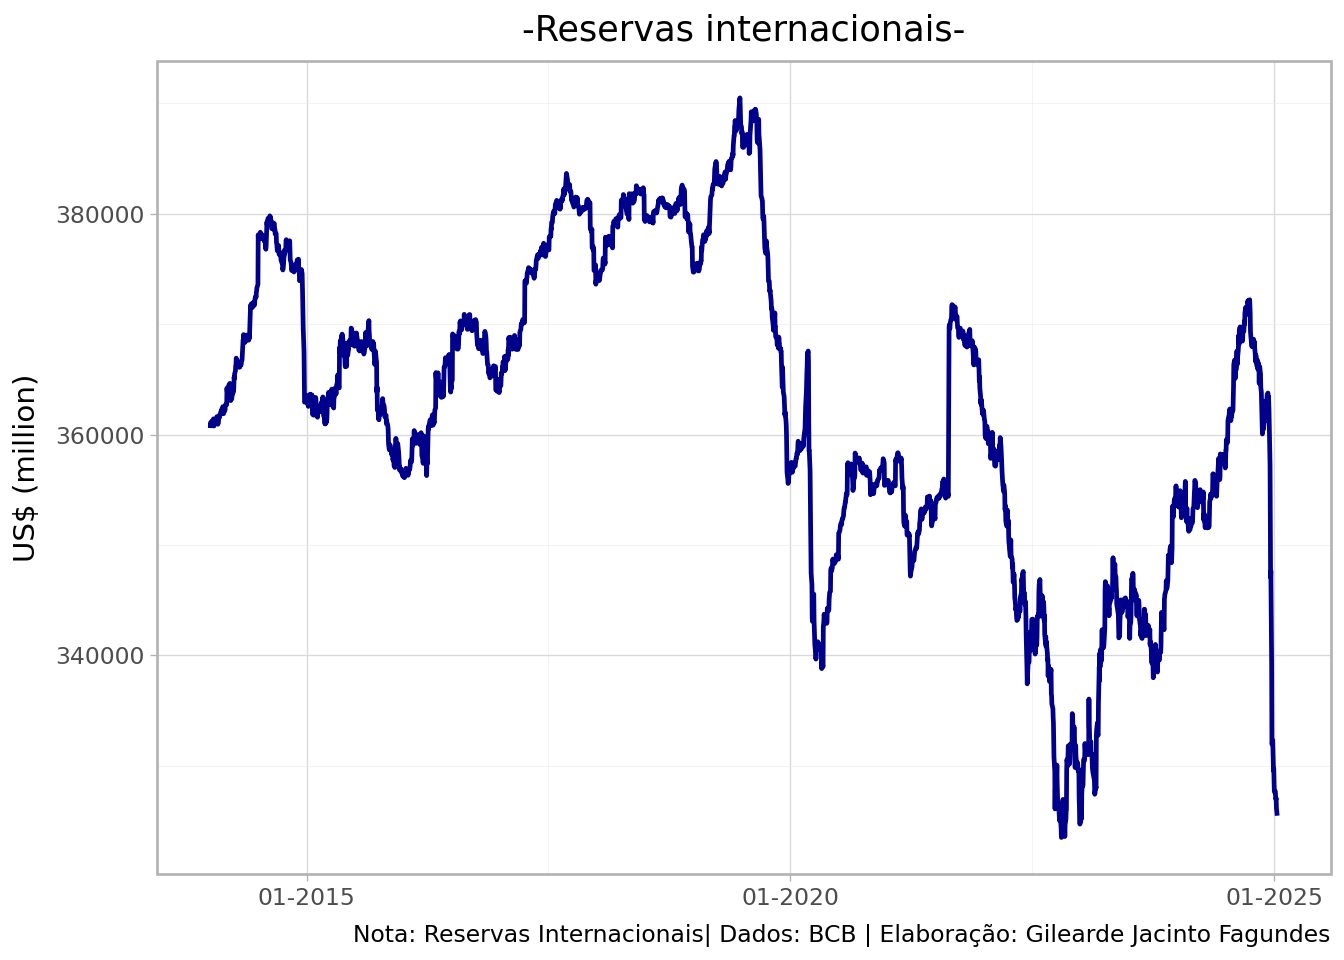
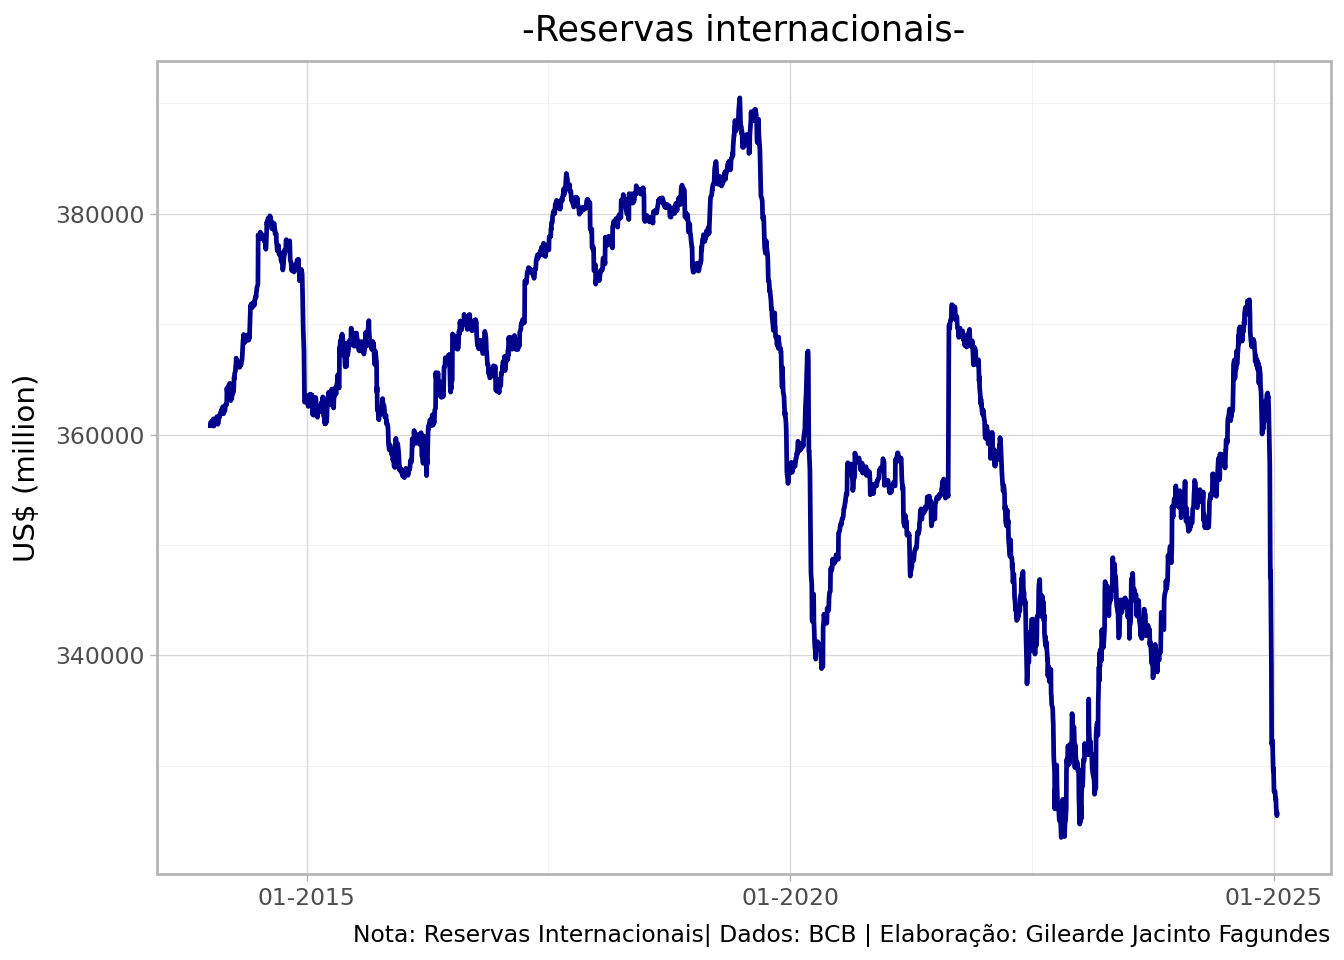
Atualização de relatorio e dashboard

diff --git a/relatorio/relatorio.html b/relatorio/relatorio.html
@@ -107,14 +107,14 @@ pre > code.sourceCode > span > a:first-child::before { text-decoration: underlin
 
 
 <p>Dados coletados da API do Banco Central do Brasil.</p>
-<div id="cd7f00f0" class="cell" data-execution_count="1">
+<div id="24fd1024" class="cell" data-execution_count="1">
 <div class="sourceCode cell-code" id="cb1"><pre class="sourceCode python code-with-copy"><code class="sourceCode python"><span id="cb1-1"><a href="#cb1-1" aria-hidden="true" tabindex="-1"></a><span class="co"># Import Librarys</span></span>
 <span id="cb1-2"><a href="#cb1-2" aria-hidden="true" tabindex="-1"></a><span class="im">from</span> bcb <span class="im">import</span> sgs</span>
 <span id="cb1-3"><a href="#cb1-3" aria-hidden="true" tabindex="-1"></a><span class="im">import</span> pandas <span class="im">as</span> pd</span>
 <span id="cb1-4"><a href="#cb1-4" aria-hidden="true" tabindex="-1"></a><span class="im">import</span> plotnine <span class="im">as</span> p9</span></code><button title="Copy to Clipboard" class="code-copy-button"><i class="bi"></i></button></pre></div>
 </div>
 <p>Utilização da library SGS/BCB:</p>
-<div id="b0d894df" class="cell" data-execution_count="2">
+<div id="4a64c972" class="cell" data-execution_count="2">
 <div class="sourceCode cell-code" id="cb2"><pre class="sourceCode python code-with-copy"><code class="sourceCode python"><span id="cb2-1"><a href="#cb2-1" aria-hidden="true" tabindex="-1"></a><span class="co"># Collect data</span></span>
 <span id="cb2-2"><a href="#cb2-2" aria-hidden="true" tabindex="-1"></a>dados <span class="op">=</span> sgs.get(</span>
 <span id="cb2-3"><a href="#cb2-3" aria-hidden="true" tabindex="-1"></a>    codes<span class="op">=</span>{<span class="st">"reserva"</span>: <span class="dv">13621</span>},</span>
@@ -123,7 +123,7 @@ pre > code.sourceCode > span > a:first-child::before { text-decoration: underlin
 <span id="cb2-6"><a href="#cb2-6" aria-hidden="true" tabindex="-1"></a>)</span></code><button title="Copy to Clipboard" class="code-copy-button"><i class="bi"></i></button></pre></div>
 </div>
 <p>Os dados brutos obtidos no SGS/BCB são exibidos abaixo:</p>
-<div id="a5420745" class="cell" data-execution_count="3">
+<div id="281dd2ef" class="cell" data-execution_count="3">
 <div class="sourceCode cell-code" id="cb3"><pre class="sourceCode python code-with-copy"><code class="sourceCode python"><span id="cb3-1"><a href="#cb3-1" aria-hidden="true" tabindex="-1"></a>dados</span></code><button title="Copy to Clipboard" class="code-copy-button"><i class="bi"></i></button></pre></div>
 <div class="cell-output cell-output-display" data-execution_count="3">
 <div>
@@ -166,37 +166,37 @@ pre > code.sourceCode > span > a:first-child::before { text-decoration: underlin
 <td>...</td>
 </tr>
 <tr class="odd">
-<td data-quarto-table-cell-role="th">2025-01-07</td>
-<td>327152</td>
-</tr>
-<tr class="even">
 <td data-quarto-table-cell-role="th">2025-01-08</td>
 <td>326948</td>
 </tr>
-<tr class="odd">
+<tr class="even">
 <td data-quarto-table-cell-role="th">2025-01-09</td>
 <td>327048</td>
 </tr>
-<tr class="even">
+<tr class="odd">
 <td data-quarto-table-cell-role="th">2025-01-10</td>
 <td>326184</td>
 </tr>
-<tr class="odd">
+<tr class="even">
 <td data-quarto-table-cell-role="th">2025-01-13</td>
 <td>325462</td>
+</tr>
+<tr class="odd">
+<td data-quarto-table-cell-role="th">2025-01-14</td>
+<td>325819</td>
 </tr>
 </tbody>
 </table>
 
-<p>2769 rows × 1 columns</p>
+<p>2770 rows × 1 columns</p>
 </div>
 </div>
 </div>
 <p>Valores e datas da maxima e minima das Reservas Internacionais Totais:</p>
-<div id="9dac1075" class="cell" data-execution_count="4">
+<div id="4c31b11b" class="cell" data-execution_count="4">
 <div class="sourceCode cell-code" id="cb4"><pre class="sourceCode python code-with-copy"><code class="sourceCode python"><span id="cb4-1"><a href="#cb4-1" aria-hidden="true" tabindex="-1"></a>dados <span class="op">=</span> dados.assign(data <span class="op">=</span> dados.index)</span></code><button title="Copy to Clipboard" class="code-copy-button"><i class="bi"></i></button></pre></div>
 </div>
-<div id="9a45755c" class="cell" data-execution_count="5">
+<div id="49d0a355" class="cell" data-execution_count="5">
 <div class="sourceCode cell-code" id="cb5"><pre class="sourceCode python code-with-copy"><code class="sourceCode python"><span id="cb5-1"><a href="#cb5-1" aria-hidden="true" tabindex="-1"></a>menor_valor <span class="op">=</span> dados.reserva.<span class="bu">min</span>() </span>
 <span id="cb5-2"><a href="#cb5-2" aria-hidden="true" tabindex="-1"></a>data_menor_valor <span class="op">=</span> dados.reserva.idxmin().date()</span>
 <span id="cb5-3"><a href="#cb5-3" aria-hidden="true" tabindex="-1"></a>maior_valor<span class="op">=</span>dados.reserva.<span class="bu">max</span>()</span>
@@ -208,7 +208,7 @@ pre > code.sourceCode > span > a:first-child::before { text-decoration: underlin
 </div>
 </div>
 <p>Gráfico de linha com a série das Reservas Internacionais Totais:</p>
-<div id="ac862142" class="cell" data-execution_count="6">
+<div id="08611432" class="cell" data-execution_count="6">
 <div class="sourceCode cell-code" id="cb7"><pre class="sourceCode python code-with-copy"><code class="sourceCode python"><span id="cb7-1"><a href="#cb7-1" aria-hidden="true" tabindex="-1"></a><span class="co"># Line Graph</span></span>
 <span id="cb7-2"><a href="#cb7-2" aria-hidden="true" tabindex="-1"></a>chart<span class="op">=</span>p9.ggplot(data <span class="op">=</span> dados) <span class="op">+\</span></span>
 <span id="cb7-3"><a href="#cb7-3" aria-hidden="true" tabindex="-1"></a>  p9.aes(x <span class="op">=</span> <span class="st">"data"</span>, y <span class="op">=</span> <span class="st">"reserva"</span>) <span class="op">+\</span></span>
@@ -222,7 +222,7 @@ pre > code.sourceCode > span > a:first-child::before { text-decoration: underlin
 <span id="cb7-11"><a href="#cb7-11" aria-hidden="true" tabindex="-1"></a>    ) <span class="op">+\</span></span>
 <span id="cb7-12"><a href="#cb7-12" aria-hidden="true" tabindex="-1"></a>  p9.theme_light()</span></code><button title="Copy to Clipboard" class="code-copy-button"><i class="bi"></i></button></pre></div>
 </div>
-<div id="49822777" class="cell" data-execution_count="7">
+<div id="1878f0c6" class="cell" data-execution_count="7">
 <div class="sourceCode cell-code" id="cb8"><pre class="sourceCode python code-with-copy"><code class="sourceCode python"><span id="cb8-1"><a href="#cb8-1" aria-hidden="true" tabindex="-1"></a>chart</span></code><button title="Copy to Clipboard" class="code-copy-button"><i class="bi"></i></button></pre></div>
 <div class="cell-output cell-output-display">
 <div>
